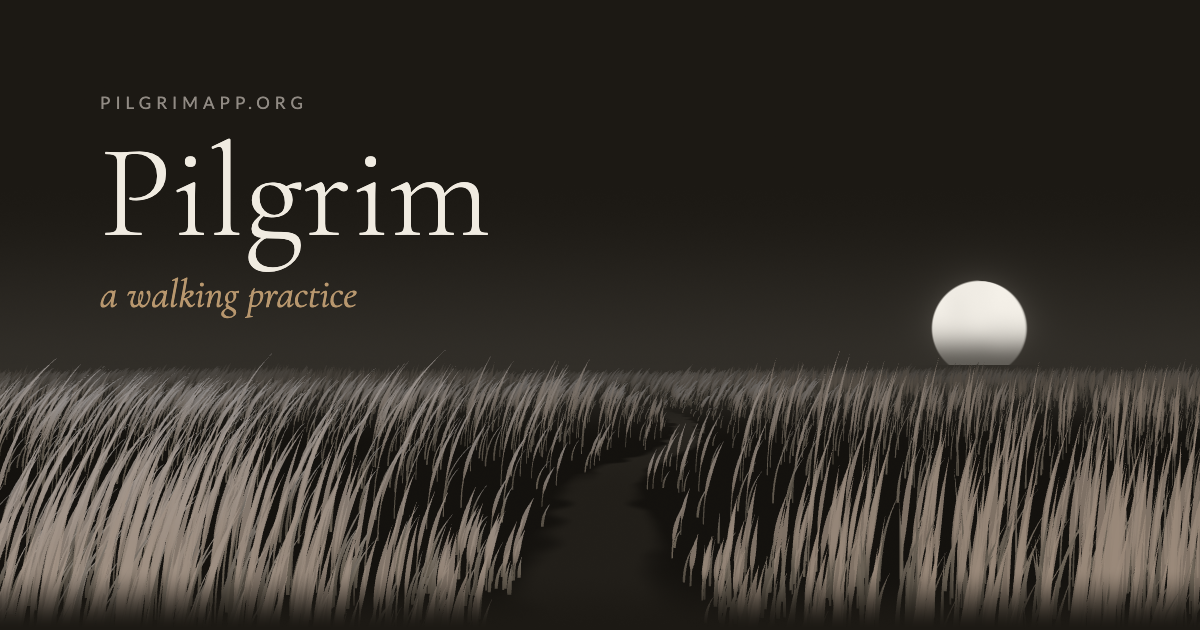
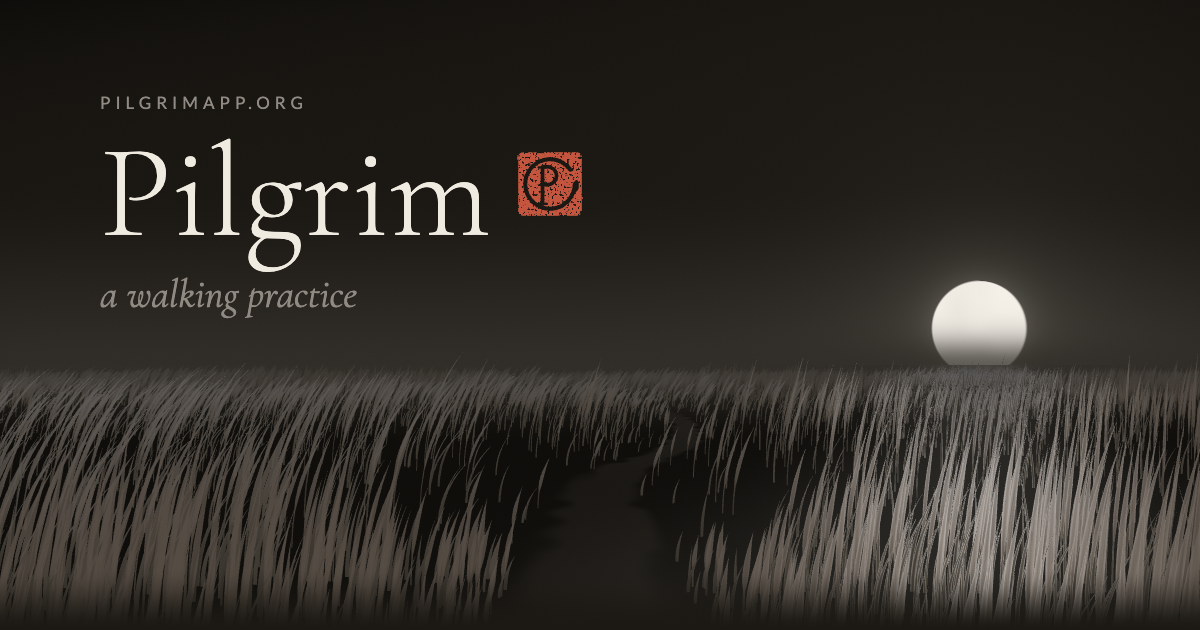
feat(og): the link card in the new light, with the seal
Re-rendered from the hero's own code, so the card shows what the
hero now does: the setting full moon lays a silver lane down the field
beneath it while the far side falls into shadow, and the vermilion
seal stands beside the name, as it does in the hero's inscription.
The six pages that share the card describe it so.

Changed region(s): [[0.0, 0.573, 1.0, 0.9651], [0.4317, 0.2413, 0.4933, 0.3619], [0.0925, 0.4524, 0.3083, 0.5127]]

diff --git a/scripts/render-og-home.html b/scripts/render-og-home.html
@@ -66,9 +66,12 @@
       font-family: 'Cormorant Garamond', serif; font-weight: 300; font-size: 132px;
       line-height: 0.95; letter-spacing: 1px; color: var(--ink);
     }
+    .signature { display: flex; align-items: flex-start; gap: 22px; }
+    .hero-seal { flex: none; width: 74px; height: 74px; margin-top: 16px; color: #A8412F; }
+    [data-theme="dark"] .hero-seal { color: #C4573F; }
     .tagline {
       font-family: 'Cormorant Garamond', serif; font-style: italic; font-weight: 400;
-      font-size: 40px; color: var(--stone); margin-top: 14px;
+      font-size: 40px; color: var(--ink-fog); margin-top: 14px;
     }
     /* The field reads the bottom of .hero-quotes to set its horizon. */
     .hero-quotes { position: absolute; left: 0; top: 205px; height: 1px; width: 1px; }
@@ -78,7 +81,34 @@
   <header class="hero" data-moon-scale="2.1">
     <div class="card">
       <p class="kicker">PILGRIMAPP.ORG</p>
-      <h1>Pilgrim</h1>
+      <div class="signature">
+        <h1>Pilgrim</h1>
+    <svg class="hero-seal" viewBox="0 0 100 100" aria-hidden="true" focusable="false">
+      <defs>
+        <filter id="hero-seal-ink" x="-6%" y="-6%" width="112%" height="112%">
+          <feTurbulence type="fractalNoise" baseFrequency="0.3" numOctaves="3" seed="8" result="grain"/>
+          <feColorMatrix in="grain" type="matrix" values="0 0 0 0 0  0 0 0 0 0  0 0 0 0 0  0 0 0 -11 7.6" result="speck"/>
+          <feComposite in="SourceGraphic" in2="speck" operator="in" result="inked"/>
+          <feTurbulence type="fractalNoise" baseFrequency="0.06" numOctaves="2" seed="3" result="warp"/>
+          <feDisplacementMap in="inked" in2="warp" scale="3.5" xChannelSelector="R" yChannelSelector="G"/>
+        </filter>
+        <mask id="hero-seal-cut">
+          <rect width="100" height="100" fill="#fff"/>
+          <g transform="translate(50,50) scale(0.56)" stroke="#000" fill="none" stroke-linecap="round">
+            <path d="M 60,0 C 60,33 33,60 0,60 C -33,60 -60,33 -60,0 C -60,-33 -33,-60 0,-60 C 33,-60 60,-33 60,0" stroke-width="10" stroke-dasharray="360" stroke-dashoffset="20"/>
+            <path d="M 56,20 C 62,14 66,6 64,-4" stroke-width="11"/>
+            <g transform="translate(-18, 8)">
+              <path d="M 0,-48 L 0,40" stroke-width="9"/>
+              <path d="M -9,-48 L 9,-48" stroke-width="6"/>
+              <path d="M -10,40 L 10,40" stroke-width="6"/>
+              <path d="M 0,-48 C 0,-48 2,-50 10,-50 C 24,-50 34,-40 34,-28 C 34,-16 24,-6 10,-6 C 2,-6 0,-8 0,-8" stroke-width="9"/>
+            </g>
+          </g>
+        </mask>
+      </defs>
+      <rect x="7" y="7" width="86" height="86" rx="7" fill="currentColor" mask="url(#hero-seal-cut)" filter="url(#hero-seal-ink)"/>
+    </svg>
+      </div>
       <p class="tagline">a walking practice</p>
     </div>
     <div class="hero-quotes"></div>

diff --git a/index.html b/index.html
@@ -25,7 +25,7 @@
   <meta property="og:image" content="https://pilgrimapp.org/assets/og-image.png">
   <meta property="og:image:width" content="1200">
   <meta property="og:image:height" content="630">
-  <meta property="og:image:alt" content="Pilgrim, a walking practice: a field of pampas grass painted in ink, a path winding into it, and a full moon setting at its edge.">
+  <meta property="og:image:alt" content="Pilgrim, a walking practice, beside a vermilion seal: a field of pampas grass painted in ink at night, a path winding into it, and a full moon setting at its edge, silvering the grass beneath it.">
   <link rel="canonical" href="https://pilgrimapp.org">
 
   <!-- Identity -->
@@ -38,7 +38,7 @@
   <meta name="twitter:title" content="Pilgrim — A Walking Practice">
   <meta name="twitter:description" content="Walking and meditation for iPhone, iPad, and Android: voice notes transcribed on-device, places hidden in fog, goshuin seals. Anonymous; walks stored on your device, shared only when you choose.">
   <meta name="twitter:image" content="https://pilgrimapp.org/assets/og-image.png">
-  <meta name="twitter:image:alt" content="Pilgrim, a walking practice: a field of pampas grass painted in ink, a path winding into it, and a full moon setting at its edge.">
+  <meta name="twitter:image:alt" content="Pilgrim, a walking practice, beside a vermilion seal: a field of pampas grass painted in ink at night, a path winding into it, and a full moon setting at its edge, silvering the grass beneath it.">
 
   <!-- Favicon -->
   <link rel="icon" href="assets/favicon.png" type="image/png">

diff --git a/compare.html b/compare.html
@@ -24,14 +24,14 @@
   <meta property="og:image" content="https://pilgrimapp.org/assets/og-image.png">
   <meta property="og:image:width" content="1200">
   <meta property="og:image:height" content="630">
-  <meta property="og:image:alt" content="Pilgrim, a walking practice: a field of pampas grass painted in ink, a path winding into it, and a full moon setting at its edge.">
+  <meta property="og:image:alt" content="Pilgrim, a walking practice, beside a vermilion seal: a field of pampas grass painted in ink at night, a path winding into it, and a full moon setting at its edge, silvering the grass beneath it.">
   <link rel="canonical" href="https://pilgrimapp.org/compare">
 
   <meta name="twitter:card" content="summary_large_image">
   <meta name="twitter:title" content="Pilgrim vs Strava, AllTrails, Headspace">
   <meta name="twitter:description" content="An honest comparison of walking and meditation apps.">
   <meta name="twitter:image" content="https://pilgrimapp.org/assets/og-image.png">
-  <meta name="twitter:image:alt" content="Pilgrim, a walking practice: a field of pampas grass painted in ink, a path winding into it, and a full moon setting at its edge.">
+  <meta name="twitter:image:alt" content="Pilgrim, a walking practice, beside a vermilion seal: a field of pampas grass painted in ink at night, a path winding into it, and a full moon setting at its edge, silvering the grass beneath it.">
 
   <link rel="icon" href="assets/favicon.png" type="image/png">
   <link rel="apple-touch-icon" href="assets/pilgrim-logo.png">

diff --git a/terms.html b/terms.html
@@ -25,14 +25,14 @@
   <meta property="og:url" content="https://pilgrimapp.org/terms">
   <meta property="og:site_name" content="Pilgrim">
   <meta property="og:image" content="https://pilgrimapp.org/assets/og-image.png">
-  <meta property="og:image:alt" content="Pilgrim, a walking practice: a field of pampas grass painted in ink, a path winding into it, and a full moon setting at its edge.">
+  <meta property="og:image:alt" content="Pilgrim, a walking practice, beside a vermilion seal: a field of pampas grass painted in ink at night, a path winding into it, and a full moon setting at its edge, silvering the grass beneath it.">
 
   <!-- Twitter Card -->
   <meta name="twitter:card" content="summary_large_image">
   <meta name="twitter:title" content="Terms of Use — Pilgrim">
   <meta name="twitter:description" content="Terms of use for the Pilgrim walking app.">
   <meta name="twitter:image" content="https://pilgrimapp.org/assets/og-image.png">
-  <meta name="twitter:image:alt" content="Pilgrim, a walking practice: a field of pampas grass painted in ink, a path winding into it, and a full moon setting at its edge.">
+  <meta name="twitter:image:alt" content="Pilgrim, a walking practice, beside a vermilion seal: a field of pampas grass painted in ink at night, a path winding into it, and a full moon setting at its edge, silvering the grass beneath it.">
 
   <link rel="icon" href="assets/favicon.png" type="image/png">
   <link rel="apple-touch-icon" href="assets/pilgrim-logo.png">

diff --git a/privacy.html b/privacy.html
@@ -25,14 +25,14 @@
   <meta property="og:url" content="https://pilgrimapp.org/privacy">
   <meta property="og:site_name" content="Pilgrim">
   <meta property="og:image" content="https://pilgrimapp.org/assets/og-image.png">
-  <meta property="og:image:alt" content="Pilgrim, a walking practice: a field of pampas grass painted in ink, a path winding into it, and a full moon setting at its edge.">
+  <meta property="og:image:alt" content="Pilgrim, a walking practice, beside a vermilion seal: a field of pampas grass painted in ink at night, a path winding into it, and a full moon setting at its edge, silvering the grass beneath it.">
 
   <!-- Twitter Card -->
   <meta name="twitter:card" content="summary_large_image">
   <meta name="twitter:title" content="Privacy Policy — Pilgrim">
   <meta name="twitter:description" content="Your walk is yours alone.">
   <meta name="twitter:image" content="https://pilgrimapp.org/assets/og-image.png">
-  <meta name="twitter:image:alt" content="Pilgrim, a walking practice: a field of pampas grass painted in ink, a path winding into it, and a full moon setting at its edge.">
+  <meta name="twitter:image:alt" content="Pilgrim, a walking practice, beside a vermilion seal: a field of pampas grass painted in ink at night, a path winding into it, and a full moon setting at its edge, silvering the grass beneath it.">
 
   <link rel="icon" href="assets/favicon.png" type="image/png">
   <link rel="apple-touch-icon" href="assets/pilgrim-logo.png">

diff --git a/guide.html b/guide.html
@@ -25,7 +25,7 @@
   <meta property="og:image" content="https://pilgrimapp.org/assets/og-image.png">
   <meta property="og:image:width" content="1200">
   <meta property="og:image:height" content="630">
-  <meta property="og:image:alt" content="Pilgrim, a walking practice: a field of pampas grass painted in ink, a path winding into it, and a full moon setting at its edge.">
+  <meta property="og:image:alt" content="Pilgrim, a walking practice, beside a vermilion seal: a field of pampas grass painted in ink at night, a path winding into it, and a full moon setting at its edge, silvering the grass beneath it.">
   <link rel="canonical" href="https://pilgrimapp.org/guide">
 
   <!-- Twitter Card -->
@@ -33,7 +33,7 @@
   <meta name="twitter:title" content="A Walking Practice — Pilgrim">
   <meta name="twitter:description" content="A simple guide to walking as practice. Walk, talk, meditate.">
   <meta name="twitter:image" content="https://pilgrimapp.org/assets/og-image.png">
-  <meta name="twitter:image:alt" content="Pilgrim, a walking practice: a field of pampas grass painted in ink, a path winding into it, and a full moon setting at its edge.">
+  <meta name="twitter:image:alt" content="Pilgrim, a walking practice, beside a vermilion seal: a field of pampas grass painted in ink at night, a path winding into it, and a full moon setting at its edge, silvering the grass beneath it.">
 
   <!-- Favicon -->
   <link rel="icon" href="assets/favicon.png" type="image/png">

diff --git a/404.html b/404.html
@@ -11,14 +11,14 @@
   <meta property="og:description" content="You are between paths.">
   <meta property="og:type" content="website">
   <meta property="og:image" content="https://pilgrimapp.org/assets/og-image.png">
-  <meta property="og:image:alt" content="Pilgrim, a walking practice: a field of pampas grass painted in ink, a path winding into it, and a full moon setting at its edge.">
+  <meta property="og:image:alt" content="Pilgrim, a walking practice, beside a vermilion seal: a field of pampas grass painted in ink at night, a path winding into it, and a full moon setting at its edge, silvering the grass beneath it.">
 
   <!-- Twitter Card -->
   <meta name="twitter:card" content="summary_large_image">
   <meta name="twitter:title" content="You are not lost.">
   <meta name="twitter:description" content="You are between paths.">
   <meta name="twitter:image" content="https://pilgrimapp.org/assets/og-image.png">
-  <meta name="twitter:image:alt" content="Pilgrim, a walking practice: a field of pampas grass painted in ink, a path winding into it, and a full moon setting at its edge.">
+  <meta name="twitter:image:alt" content="Pilgrim, a walking practice, beside a vermilion seal: a field of pampas grass painted in ink at night, a path winding into it, and a full moon setting at its edge, silvering the grass beneath it.">
 
   <link rel="icon" href="/assets/favicon.png" type="image/png">
   <link rel="apple-touch-icon" href="/assets/pilgrim-logo.png">
